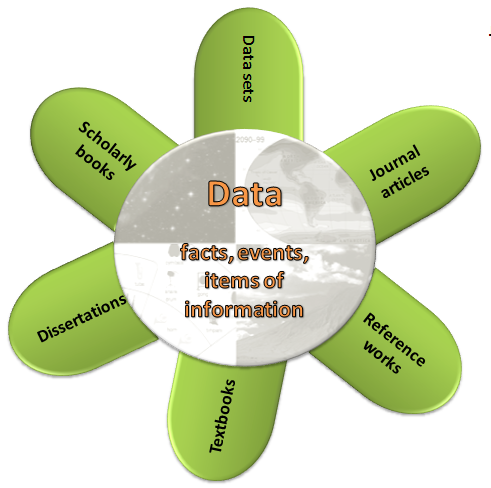
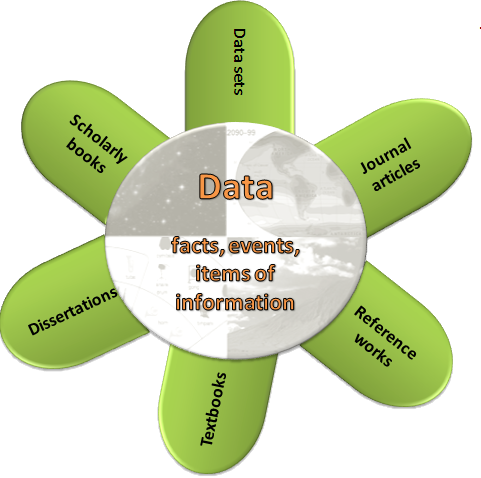
image and quiz changes from editorial

diff --git a/index.html b/index.html
@@ -411,23 +411,42 @@ plenty of advertising</span><img src="images/healthmag.jpg" alt="Health"/><span 
 				
 				<article>
 <h3>Overview of the information process</h3>
+<div class="table-driver">
 <p>Although the various types of information sources are different in several ways, they also have something in common:  
 the use of data. Data are the building blocks of information and include much more than numbers. Data include facts,  events, and items of information presented in visible form.</p>
-<img src="images/flower_animated.gif" alt="data flower" class="feature hide"/>
-<ul>
+<table class="plain">
+	<thead class="ghost">
+		<td>Source Type</td>
+		<td>Source Visualization</td>
+	</thead>
+	<tr class="inner-row ghost">
+		<td class="ghost">Popular</td>
+		<td><img src="images/slide 21_data_pop_srcs.png" alt="popular sources: blogs, catalogs, news articles, etc." class="feature hide"/></td>
+	</tr>
+	<tr class="inner-row ghost">
+		<td class="ghost">Scholarly</td>
+		<td><img src="images/slide22_data_schol_srcs.png" alt="scholarly sources: journals, textbooks, data sets, etc." class="feature hide"/></td>
+	</tr>
+	<tr class="inner-row">
+		<td class="ghost">Scholarly &amp; Popular</td>
+		<td><img src="images/slide23_data_pop_schol.png" alt="all sources in a data flower diagram" class="feature hide"/></td>
+	</tr>
+</table>
+<ul class="table-driver">
 <li>
-<strong>Popular sources (yellow petals):</strong>
+<strong><a href="#" data-item="0">Popular sources</a> (yellow petals):</strong>
 Researchers and writers of popular sources such as news articles, blogs, and books often include data, facts, and  details of events in their work.</li>
 <li>
-<strong>Scholarly sources (green petals):</strong>
+<strong><a href="#" data-item="1">Scholarly sources</a> (green petals):</strong>
 Just as data form the basis for popular information sources, data play an even larger role in scholarly work.  Scholarly information sources include things like journal articles, 
 scholarly books, data sets, dissertations,  textbooks, and reference works.</li>
 <li>
-<strong>Scholarly &amp; popular sources:</strong>
+<strong><a href="#" data-item="2">Scholarly &amp; popular sources</a>:</strong>
 We've talked about the research process from data to published work.
 But where do YOU fit in?
 </li>
 </ul>
+</div>
 				</article>
 				<article>
 
@@ -456,23 +475,23 @@ But where do YOU fit in?
 					<input type="email" name="q1em" id="q1em">
 					<label for="q1nm">Name:</label>
 					<input type="text" name="q1nm" id="q1nm">
-					<label for="q1q1">Which of these are data?</label>
+					<label for="q1q1">The magnitude of an earthquake, the number of Americans who own computers, and incomes of players in the NBA are all examples of:</label>
 					<span class="correct hide">Exactly right. All of these are examples of data.</span>
 					<ul role="presentation">
 						<li role="presentation">
-							<input type="checkbox" name="q1q1" data-c="false"/> A. Magnitude of an earthquake
-							<span class="error hide">Yes, this is one type of data, but the correct answer is D, “all of the above.”</span>
+							<input type="checkbox" name="q1q1" data-c="false"/> A. bibliographies 
+							<span class="error hide">Well, no. Bibliographies contain sources used in an academic paper or report, not random bits of information. Try again.</span>
 						</li>
 						<li role="presentation">
-							<input type="checkbox" name="q1q1" data-c="false"/> B. Number of Americans who own a computer
-							<span class="error hide">Yes, this is one type of data, but the correct answer is D, “all of the above.”</span>
+							<input type="checkbox" name="q1q1" data-c="false"/> B. popular sources
+							<span class="error hide">Well, these could be the subject of popular articles, but by themselves they are not considered popular sources. Try again.</span>
 						</li> 
 						<li role="presentation">
-							<input type="checkbox" name="q1q1" data-c="false"/> C. Incomes of players in the NBA
-							<span class="error hide">Yes, this is one type of data, but the correct answer is D, “all of the above.”</span>
+							<input type="checkbox" name="q1q1" data-c="true"/> C. data 
 						</li>
 						<li role="presentation">
-							<input type="checkbox" name="q1q1" data-c="true"/> D. All of the above
+							<input type="checkbox" name="q1q1" data-c="false"/> D. scholarly articles 
+							<span class="error hide">Well, these could be the subject of scholarly articles, but by themselves they are not considered scholarly articles. Try again.</span>
 						</li>
 					</ul>
 					<label for="q1q2">Which of the following are <em>popular</em> information sources? Choose the two correct answers.</label>
@@ -1232,14 +1251,14 @@ of databases for you to use.</strong></li>
 					<span class="correct hide">Yes. This article looks right on target! Good job!</span>
 					<ul role="presentation">
 						<li role="presentation">
-							<input type="checkbox" name="q3q2" data-c="false"/> <img src="images/college_mens_third-person_article.jpg" alt="Title: College Men's Third-Person Perceptions about Idealized Body Image and Consequent Behavior"/>
+							<input type="checkbox" name="q3q2" data-c="false"/> A. <img src="images/college_mens_third-person_article.jpg" alt="Title: College Men's Third-Person Perceptions about Idealized Body Image and Consequent Behavior"/>
 							<span class="error hide">This article will not further your knowledge on the assigned topic. You want information on adolescent girls, and the focus here is on male college students.</span>
 						</li>
 						<li role="presentation">
-							<input type="checkbox" name="q3q2" data-c="true"/> <img src="images/body_objectification_article.jpg" alt="Title: Body Objectification, MTV, and Psychological Outcomes Among Female Adolescents"/>
+							<input type="checkbox" name="q3q2" data-c="true"/> B. <img src="images/body_objectification_article.jpg" alt="Title: Body Objectification, MTV, and Psychological Outcomes Among Female Adolescents"/>
 						</li> 
 						<li role="presentation">
-							<input type="checkbox" name="q3q2" data-c="false"/> <img src="images/body_image_and_self-esteem_article.jpg" alt="Title: Body Image and Self-Esteem Among Adolescent Girls: Testing the Influence of Sociocultural Factors."/> 
+							<input type="checkbox" name="q3q2" data-c="false"/> C. <img src="images/body_image_and_self-esteem_article.jpg" alt="Title: Body Image and Self-Esteem Among Adolescent Girls: Testing the Influence of Sociocultural Factors."/> 
 							<span class="error hide">No, this isn’t the <em>best</em> choice. This one is a bit tricky, since the article does involve body image and adolescent girls, but it is concerned more with sociocultural factors than with the media, specifically. There is a better answer for this question.</span>
 						</li>
 					</ul>
@@ -1555,6 +1574,10 @@ A book’s full title appears on the title page.</p>
 						<li role="presentation">
 							<input type="checkbox" name="q4q1" data-c="false"/> C. Insincere 
 							<span class="error hide">No. The writer might be very sincere yet not able or willing to present a balanced argument.</span>
+						</li>
+						<li role="presentation">
+							<input type="checkbox" name="q4q1" data-c="false"/> D. Out of date
+							<span class="error hide">No. The emotional language doesn’t have anything to do with the date of the information source.</span>
 						</li>
 					</ul>
 					<label for="q4q2">You are thinking of buying a used car. Use the CRAAP test to help determine which of the following would provide the most accurate and current information for the safety and repair record of the models you are considering.</label>

diff --git a/tutorial.css b/tutorial.css
@@ -226,6 +226,15 @@ div#footer{
 	width:70%;
 	max-width:743px;
 }
+.mct table.plain {
+	border:none;
+}
+.mct table.plain img.feature {
+	width:90%;
+}
+.mct table.plain td.ghost {
+	width:10%;
+} 
 .mct table caption {
 	background-color:#993366;
 	color:#fff;
